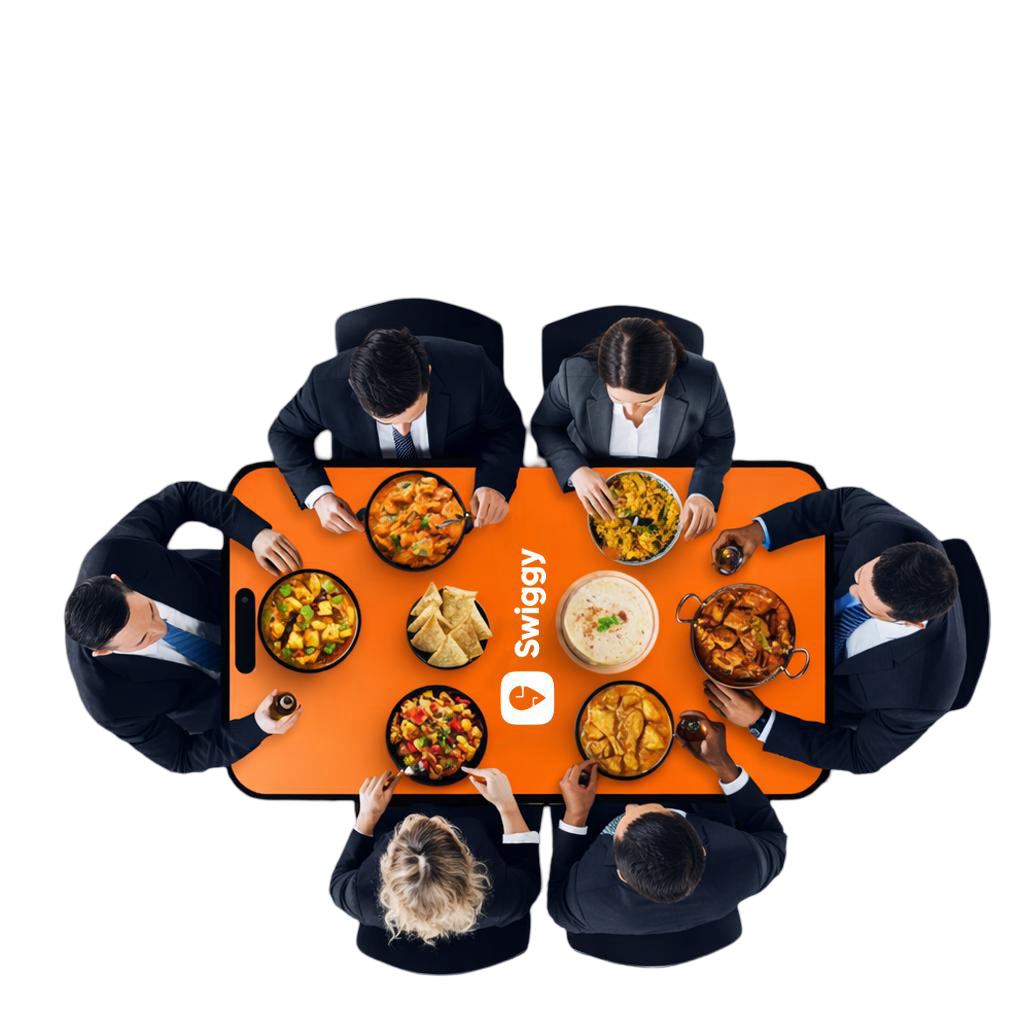
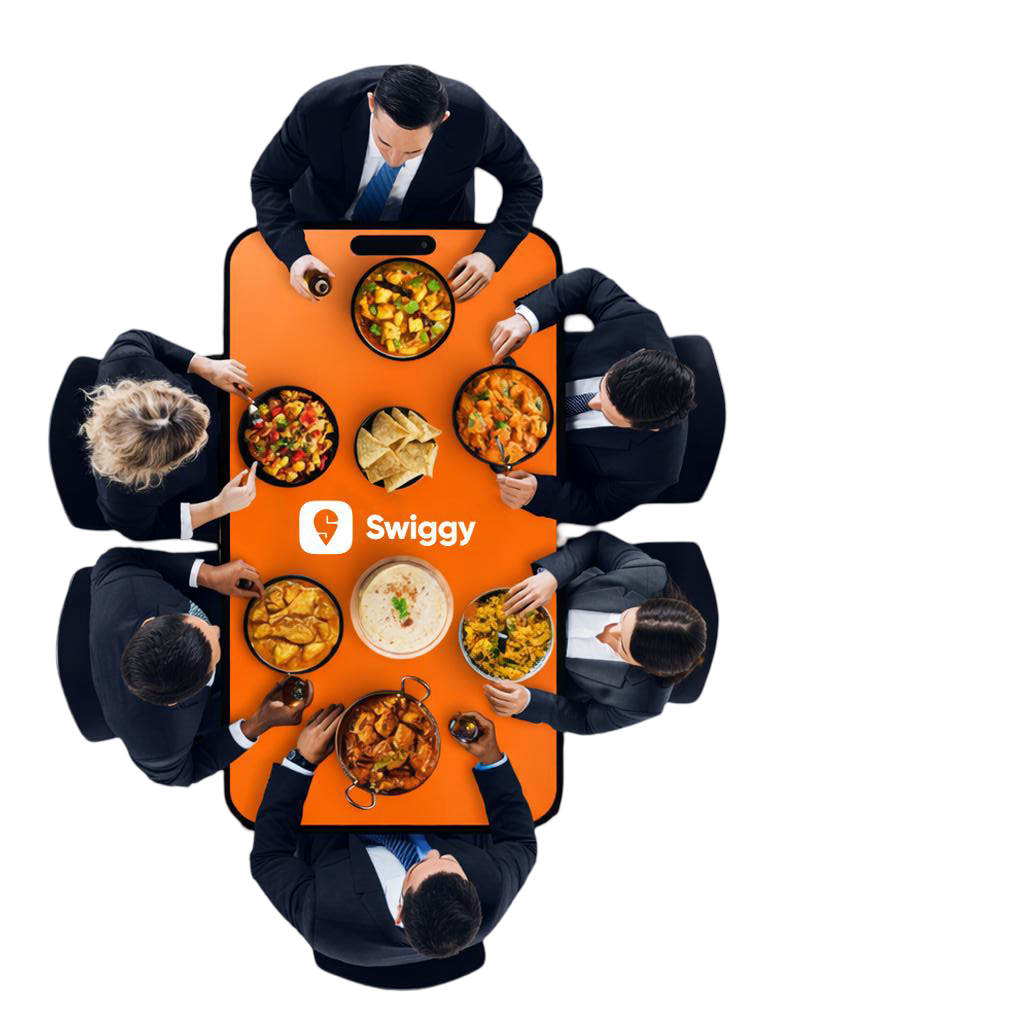
table swiggy fix

diff --git a/src/app/page.tsx b/src/app/page.tsx
@@ -157,7 +157,7 @@ export default function Home() {
                   height={1024}
                   priority
                   sizes="(max-width: 1024px) 100vw, 40vw"
-                  className="h-full w-auto rotate-90 object-contain"
+                  className="h-full w-full object-contain"
                 />
               </div>
             </div>
